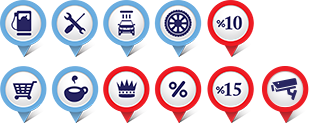
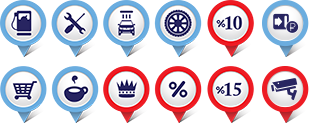
fixes

Changed region(s): [[0.8075, 0.0, 0.9627, 0.4634]]

diff --git a/app/models/widget.rb b/app/models/widget.rb
@@ -7,6 +7,7 @@ class Widget
       new(name: 'Автомойка', type: :normal, clip_rect: {offset: {x:103,y:0}, dim: dim}),
       new(name: 'Автосервис', type: :repair, clip_rect: {offset: {x:51,y:0}, dim: dim}),
       new(name: 'Видео-трансляция', type: :live, clip_rect: {offset: {x:262,y:66}, dim: dim}),
+      new(name: 'Мойка-самооблуживание', type: :self_service, clip_rect: {offset: {x:262,y:0}, dim: dim}),
       new(name: 'Скидка 10%', type: :discount_10, clip_rect: {offset: {x:207,y:0}, dim: dim}),
       new(name: 'Скидка 15%', type: :discount_15, clip_rect: {offset: {x:207,y:66}, dim: dim}),
       new(name: 'Шиномонтаж', type: :tire_svc, clip_rect: {offset: {x:154,y:0}, dim: dim}),

diff --git a/app/controllers/admin/ad_settings_controller.rb b/app/controllers/admin/ad_settings_controller.rb
@@ -27,6 +27,6 @@ class Admin::AdSettingsController < Admin::SettingsController
   end
 
   def ad_settings_params
-      params.require(:ad_settings).permit(:ad_1_title, :ad_1_text, :ad_2_title, :ad_2_text)
+      params.require(:ad_settings).permit(:ad_1_title, :ad_1_text, :ad_2_title, :ad_2_text, :ad_1_url, :ad_2_url)
   end
 end
